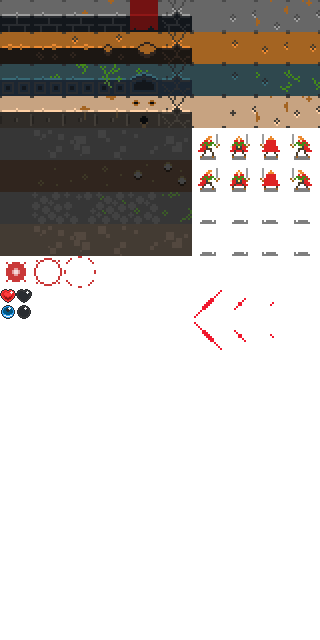
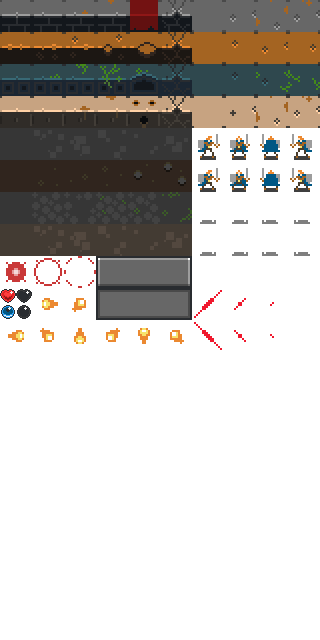
Fireball and heal spells, game restart

diff --git a/game.js b/game.js
@@ -1,6 +1,7 @@
 Game = {};
 
 Game.init = function(){
+    $('.gameover').hide();
     Game.map = new Map(64, 64);
     Game.player = Game.map.random(function(x,y){ return Game.map.empty(x,y); });
     Game.lastPlayerDirection = 'S';
@@ -13,6 +14,8 @@ Game.init = function(){
     Game.health = 10;
     Game.maxMana = 5;
     Game.mana = 5;
+    Game.dead = false;
+
     /*
       This engine stuff deserves a little explanation:
       The engine will run through all the actors (which is anything
@@ -46,12 +49,14 @@ Game.act = function() {
 }
 
 Game.clickMap = function(event) {
+    if(Game.display.busy()) return;
     if(Game.path && Game.path.length > 0) return;
     var click = Game.display.display.eventToPosition(event);
     click[0] += Game.display.origin[0];
     click[1] += Game.display.origin[1];
 
-    if(Game.map.navigable(click[0], click[1]) && Game.map.get(click[0], click[1], 'visibility')) {
+    if(Game.targeting) { Game.targeting(click); }
+    else if(Game.map.navigable(click[0], click[1]) && Game.map.get(click[0], click[1], 'visibility')) {
         var pathfinder = new ROT.Path.Dijkstra(click[0], click[1], function(x,y) {
             return Game.map.empty(x, y) && Game.map.get(x, y, 'visibility');
         });
@@ -69,20 +74,30 @@ Game.clearPath = function(){
 };
 
 Game.keyPress = function(event) {
+    if(Game.display.busy()) return;
     var keys = {}
     keys[ROT.VK_UP] = 0;
-    keys[ROT.VK_RIGHT] = 1;
-    keys[ROT.VK_DOWN] = 2;
-    keys[ROT.VK_LEFT] = 3;
+    keys[ROT.VK_RIGHT] = 2;
+    keys[ROT.VK_DOWN] = 4;
+    keys[ROT.VK_LEFT] = 6;
+
+    keys[ROT.VK_NUMPAD1] = 5;
+    keys[ROT.VK_NUMPAD2] = 4;
+    keys[ROT.VK_NUMPAD3] = 3;
+    keys[ROT.VK_NUMPAD4] = 6;
+    keys[ROT.VK_NUMPAD6] = 2;
+    keys[ROT.VK_NUMPAD7] = 7;
+    keys[ROT.VK_NUMPAD8] = 0;
+    keys[ROT.VK_NUMPAD9] = 1;
+
     var dir = keys[event.keyCode];
 
     if(dir != null){
-        var delta = ROT.DIRS[4][dir];
+        var delta = ROT.DIRS[8][dir];
         var new_x = Game.player[0] + delta[0];
         var new_y = Game.player[1] + delta[1];
-        if(Game.tryMove(new_x, new_y)) {
-            Game.doMove(new_x, new_y);
-        }
+        if(Game.targeting) { Game.targeting([new_x, new_y]); }
+        else if(Game.tryMove(new_x, new_y)) { Game.doMove(new_x, new_y); }
         return event.preventDefault();
     }
 };
@@ -97,11 +112,17 @@ Game.doAttack = function(new_x, new_y) {
     var tgty = new_y*2 - Game.player[1];
     var mob = Game.map.get(tgtx, tgty, 'mobs');
     if(Game.map.empty(new_x, new_y) && mob){
-        Game.map.set(tgtx, tgty, null, 'mobs');
-        var idx = Game.map.mobs.findIndex(function(e){ return e === mob; });
-        Game.map.mobs.splice(idx, 1);
-        Game.display.addEffect(tgtx, tgty, 'kill');
+        Game.killMob(tgtx, tgty);
+        if(Game.mana < Game.maxMana) Game.mana++;
     }
+};
+
+Game.killMob = function(x, y) {
+    var mob = Game.map.get(x, y, 'mobs');
+    Game.map.set(x, y, null, 'mobs');
+    var idx = Game.map.mobs.findIndex(function(e){ return e === mob; });
+    Game.map.mobs.splice(idx, 1);
+    Game.display.addEffect(x, y, 'kill');
 };
 
 Game.canShove = function(new_x, new_y) {
@@ -172,6 +193,38 @@ Game.tryEnemyMove = function(enemy, x, y) {
         return true;
     }
     return false;
+};
+
+Game.gameover = function() {
+    Game.dead = true;
+    clearInterval(Game.display.animation);
+    window.removeEventListener('keydown', Game.keyPress);
+    $('.gameover').show();
+};
+
+Game.cast = function(event) {
+    var name = $(this).attr('name');
+    var spell = Status.spells[name];
+
+    if(name == 'Heal') {
+        if(Game.health < Game.maxHealth) {
+            Game.health++;
+            Game.mana -= spell.cost;
+            Status.log('You heal one life');
+        } else {
+            Status.log("You're already at full health");
+        }
+    } else if(name == 'Fire') {
+        Status.log('Choose a direction');
+        Game.targeting = function(tgt) {
+            if(Game.map.adjacent(tgt, Game.player)){
+                delete Game.targeting;
+                Game.mana -= spell.cost;
+                var dir = [tgt[0]-Game.player[0], tgt[1]-Game.player[1]];
+                Game.display.setBullet(new Bullet(Game.player, dir, 'fireball'+Game.map.direction(Game.player, tgt)));
+            }
+        };
+    }
 };
 
 $('document').ready(Game.init);

diff --git a/display.js b/display.js
@@ -5,6 +5,8 @@ Display = function(map) {
     this.status = new Status();
 
     this.effects = {};
+    this.bullet = null;
+    this.dirty = {};
     this.map = map;
     this.makeDisplay();
     var that = this;
@@ -32,6 +34,15 @@ Display = function(map) {
         for(var i in that.effects){
             that.effects[i].act();
             if(!that.effects[i].active) delete that.effects[i];
+        }
+
+        if(that.bullet){
+            that.dirty[that.bullet.position[0]+','+that.bullet.position[1]] = true;
+            that.bullet.act();
+            if(!that.bullet.active){
+                that.dirty[that.bullet.position[0]+','+that.bullet.position[1]] = true;
+                that.bullet = null;
+            }
         }
 
     }, 100);
@@ -92,8 +103,21 @@ Display.opts = { width: 0,
                      'kill0': [0, 256],
                      'kill1': [32, 256],
                      'kill2': [64, 256],
+
+                     'fireballW': [32, 288],
+                     'fireballNE': [64, 288],
+                     'fireballE': [0, 320],
+                     'fireballSE': [32, 320],
+                     'fireballS': [64, 320],
+                     'fireballSW': [96, 320],
+                     'fireballN': [128, 320],
+                     'fireballNW': [160, 320],
                  }
                };
+
+Display.prototype.busy = function() {
+    return !$.isEmptyObject(this.effects) && !$.isEmptyObject(this.bullets);
+};
 
 Display.prototype.playerSprite = function() {
     return 'player' + Game.lastPlayerDirection + this.playerFrame;
@@ -114,8 +138,9 @@ Display.prototype.draw = function(animateOnly){
     for(var x=this.origin[0]; x < this.origin[0] + Display.opts.width; x++)
         for(var y=this.origin[1]; y < this.origin[1] + Display.opts.height; y++) {
             if(this.map.get(x, y, 'visibility') == 1) {
-                if(!animateOnly || this.containsMobs(x,y))
+                if(!animateOnly || this.containsAnimations(x, y) || this.dirty[x+','+y])
                     this.drawVisibleCell(x, y);
+                delete this.dirty[x+','+y];
             } else if(this.map.get(x, y, 'visibility') == 2 && !animateOnly) {
                 this.drawRememberedCell(x, y);
             } else if(!animateOnly){
@@ -125,8 +150,9 @@ Display.prototype.draw = function(animateOnly){
     this.status.draw();
 };
 
-Display.prototype.containsMobs = function(x,y) {
+Display.prototype.containsAnimations = function(x,y) {
     if(this.effects[x+','+y]) return true;
+    if(this.bullet) return true;
     if(this.map.get(x,y,'mobs')) return true;
     if(x == Game.player[0] && y == Game.player[1]) return true;
     return false;
@@ -140,8 +166,8 @@ Display.prototype.drawVisibleCell = function(x, y) {
 
     if(mob) sprites.push(mob.mobSprite());
     if(Game.player[0] == x && Game.player[1] == y) sprites.push(this.playerSprite());
+    if(this.bullet && this.bullet.position[0] == x && this.bullet.position[1] == y) sprites.push(this.bullet.sprite());
     if(effect) sprites.push(effect.sprite());
-
 
     if(sprites.length == 1)
         this.display.draw(x - this.origin[0], y - this.origin[1], sprites, color);
@@ -156,6 +182,10 @@ Display.prototype.drawRememberedCell = function(x, y) {
 Display.prototype.addEffect = function(x, y, name) {
     if(this.effects[x+','+y]) this.effects[x+','+y].enqueue(name);
     else this.effects[x+','+y] = new Effect(name);
+};
+
+Display.prototype.setBullet = function(bullet) {
+    this.bullet = bullet;
 };
 
 Display.prototype.setBiome = function(biome, type) {

diff --git a/index.html b/index.html
@@ -16,19 +16,37 @@
     <link href="https://fonts.googleapis.com/css?family=Cutive+Mono" rel="stylesheet">
 
     <style type="text/css">
+     * { font-family: 'Cutive Mono', monospace; color: white; font-weight: normal; }
      #container canvas { margin-left: auto; margin-right: auto; display: block; }
      .status canvas { margin: 0; display: block; }
      .header { font-family: 'Cutive Mono', monospace; color: white; font-weight: normal; font-size: 24px; }
-     h1 { font-size: 16px;  margin: 0 10px; display: inline; font-weight: normal; }
+     .log { font-family: 'Cutive Mono', monospace; color: white; font-weight: normal; font-size: 16; padding-left: 10px; }
+     .header h1 { font-size: 16px;  margin: 0 10px; display: inline; font-weight: normal; position: absolute; }
+     .spells { position: fixed; top: 16px; left: 276px; right: 0px; height: 32px; }
+     button { background-image: url('tiny_dungeon.png'); background-position: -96px -256px; height: 32px; width: 96px; border: 0;
+         color: white; font-size: 16px; }
+     button:active { background-position: -96px -288px; }
+     button:disabled { color: gray; }
+     .gameover { position: fixed; top: 0; left: 0; bottom: 0; right: 0; }
+     .gameover .cover { position: fixed; top: 0; left: 0; bottom: 0; right: 0; z-index: 100; background: #333; opacity: 0.5; }
+     .gameover .restart { position: relative; top: 50%; margin: -50px auto 0 auto; height: 100px; width: 200px; padding: 25px 0; text-align: center; background: black; z-index: 200; }
     </style>
   </head>
   <body style="margin: 0; background: black;">
-      <div class="header" style="position: fixed; top: 0; left: 0; right: 0; height: 32px;">
+      <div class="header" style="position: fixed; top: 0; left: 0; right: 0; height: 16px;">
           <h1>Caverns of Sevendral - Ross Andrews</h1>
       </div>
-      <div class="status" style="position: fixed; top: 32px; left: 0; right: 0; height: 32px;"></div>
+      <div class="status" style="position: fixed; top: 16px; left: 10px; right: 0; height: 32px;">
+      </div>
+      <div class="spells">
+      </div>
+      <div class="log" style="position: fixed; top: 48px; left: 0; right: 0; height: 16px;"></div>
       <div id="container" style="position: fixed; top: 64px; left: 0; bottom:0; right: 0;">
           <div class="main-map" style="position: relative;"></div>
+      </div>
+      <div class="gameover" style="display: none">
+          <div class="cover"></div>
+          <div class="restart">You have died!<br/><br/><br/><button onclick="Game.init()">Restart</button></div>
       </div>
   </body>
 </html>

diff --git a/status.js b/status.js
@@ -9,7 +9,38 @@ function Status(){
         that.display = new ROT.Display(Status.opts);
         $('.status').append(that.display.getContainer());
     };
+
+    Status.addSpell('Heal', 'Heal 1 life', 3);
+    Status.addSpell('Fire', 'Shoot a fireball', 5);
 }
+
+Status.spells = {};
+
+Status.log = function(str){
+    $('.log').text(str);
+};
+
+Status.showSpellDescription = function(event) {
+    spell = Status.spells[$(this).attr('name')];
+    Status.log(spell.cost+': '+spell.description);
+};
+
+Status.hideSpellDescription = function(event) {
+    Status.log('');
+};
+
+Status.addSpell = function(name, description, cost) {
+    if(Status.spells[name]) return;
+    Status.spells[name] = { name: name, description: description, cost: cost };
+    var button = document.createElement('button');
+    Status.spells[name].button = button;
+    $(button).text(name);
+    $(button).attr('name', name);
+    $('.spells').append(button);
+    $(button).on('mouseenter', Status.showSpellDescription);
+    $(button).on('mouseleave', Status.hideSpellDescription);
+    $(button).on('click', Game.cast);
+};
 
 Status.opts = { width: 16,
                 height: 2,
@@ -35,5 +66,10 @@ Status.prototype.draw = function(){
     for(var n=0; n<Game.maxMana; n++){
         if(n < Game.mana) this.display.draw(n, 1, 'mana1');
         else this.display.draw(n, 1, 'mana0')
+    }
+
+    for(var name in Status.spells) {
+        var afford = Status.spells[name].cost <= Game.mana;
+        $(Status.spells[name].button).attr('disabled', !afford);
     }
 };

diff --git a/effect.js b/effect.js
@@ -33,3 +33,30 @@ Effect.prototype.enqueue = function(name){
     if(this.queue) this.queue.push(name);
     else this.queue = [name];
 };
+
+//////////////////////////////////////////////////
+
+function Bullet(start, direction, sprite){
+    this.position = [start[0], start[1]];
+    this.direction = direction;
+    this.spriteName = sprite;
+    this.active = true;
+};
+
+Bullet.prototype = Object.create(Effect.prototype);
+
+Bullet.prototype.sprite = function(){ return this.spriteName; }
+
+Bullet.prototype.act = function() {
+    this.position[0] += this.direction[0];
+    this.position[1] += this.direction[1];
+    if(!Game.display.map.navigable(this.position[0], this.position[1])) {
+        this.active = false;
+        return;
+    }
+
+    var mob = Game.display.map.get(this.position[0], this.position[1], 'mobs');
+    if(mob) {
+        Game.killMob(this.position[0], this.position[1]);
+    }
+};

diff --git a/map.js b/map.js
@@ -75,13 +75,28 @@ Map.prototype.empty = function(x, y){
 };
 
 Map.prototype.navigable = function(x, y){
-    return this.get(x, y).match('^floor');
+    var tile = this.get(x, y);
+    return tile && tile.match('^floor');
 };
 
 Map.prototype.adjacent = function(a, b){
     var dx = Math.abs(a[0] - b[0]);
     var dy = Math.abs(a[1] - b[1]);
     return dx <= 1 && dy <= 1;
+};
+
+Map.prototype.direction = function(a,b){
+    var dx = b[0] - a[0];
+    var dy = b[1] - a[1];
+
+    if(dx==0 && dy<0) return 'N';
+    if(dx>0 && dy<0) return 'NE';
+    if(dx>0 && dy==0) return 'E';
+    if(dx>0 && dy>0) return 'SE';
+    if(dx==0 && dy>0) return 'S';
+    if(dx<0 && dy>0) return 'SW';
+    if(dx<0 && dy==0) return 'W';
+    if(dx<0 && dy<0) return 'NW';
 };
 
 Map.prototype.random = function(fn){
